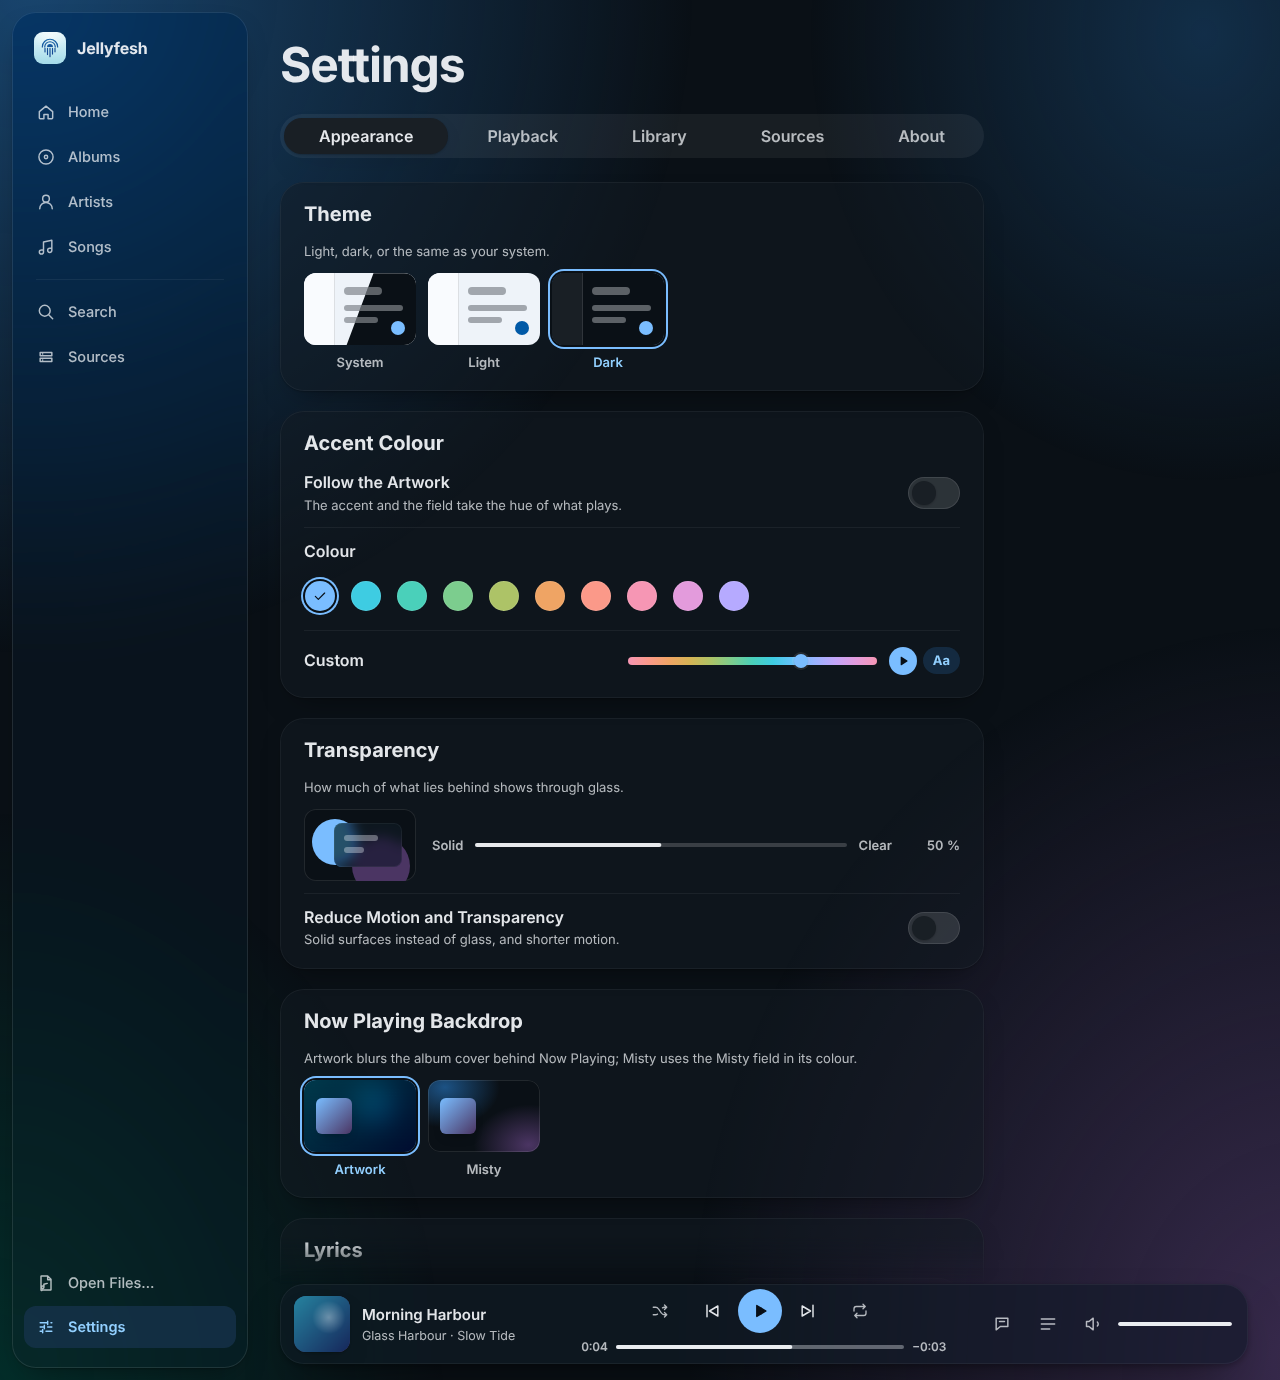
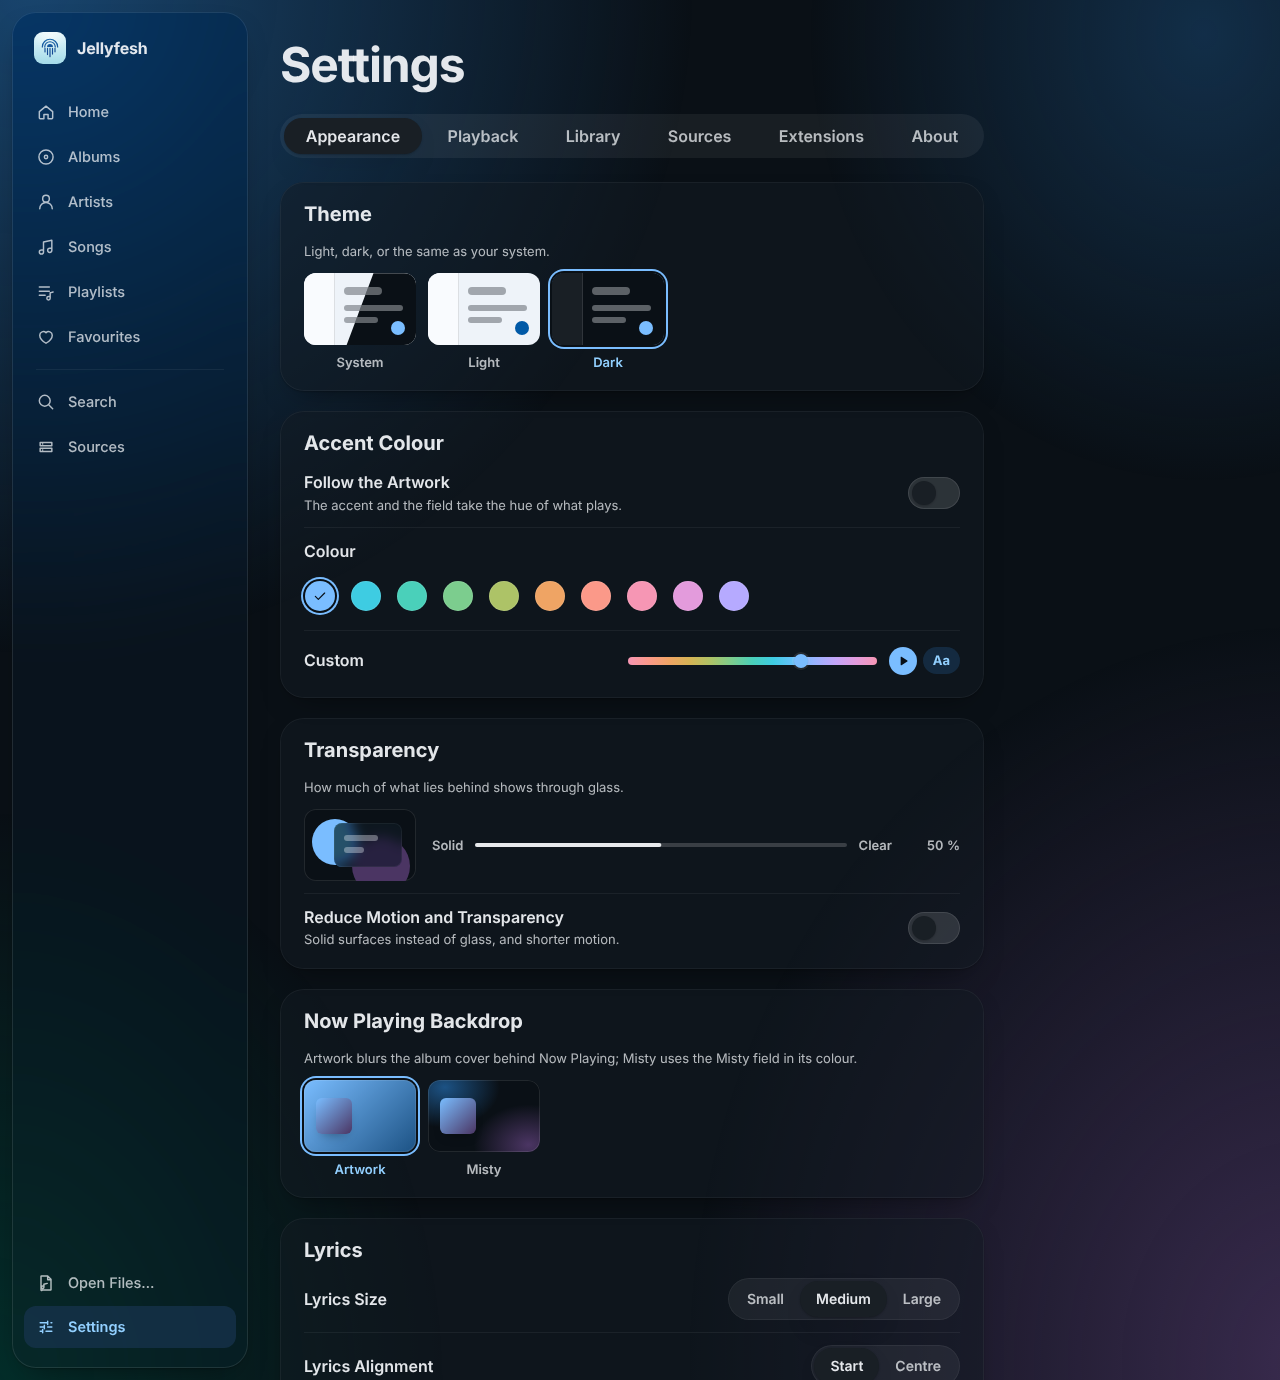
Web: reference screenshots of every page for v0.0.8
ADR-0023 §5: docs/screenshots/web/ now holds every reference page light
and dark, on a desktop and a phone: Home, Albums, Artists, Songs,
Playlists, a playlist, Favourites, Search and a source's tab, Sources, an
album, Settings' Appearance and Playback, and the quality menu, beside
Now Playing in both styles and the player bar. They are taken against the
mock servers and a generated music folder whose songs carry covers (an
ID3 chunk in the test WAVs), with hearts, a playlist and plays in place,
and keep their -mock-server names, so the website's sample-music shots
are still there. docs/web.md describes the set and the new tests.

diff --git a/platforms/web/tests/e2e/screenshots.spec.ts b/platforms/web/tests/e2e/screenshots.spec.ts
@@ -1,9 +1,17 @@
-// Screenshots for docs/screenshots/web/, taken from the app running against the mock servers
-// (invented library, generated covers): every file name ends in -mock-server.png. Only with
-// JF_SCREENSHOTS=1:  JF_SCREENSHOTS=1 npx playwright test screenshots --trace off
+// The reference screenshots in docs/screenshots/web/ (ADR-0023 §5: every reference page, light and
+// dark, desktop and phone), taken from the app running against the mock servers and a generated
+// music folder (invented names, generated tones and gradient covers): every file name ends in
+// -mock-server.png, and the website captions the ones it shows as sample music
+// (tools/release/build_site.py). Only with JF_SCREENSHOTS=1:
+//
+//   JF_SCREENSHOTS=1 npx playwright test screenshots --trace off
 
+import { mkdirSync, mkdtempSync, rmSync, writeFileSync } from 'node:fs';
+import { tmpdir } from 'node:os';
+import { join } from 'node:path';
 import { fileURLToPath } from 'node:url';
 import { type Browser, expect, type Page, test } from '@playwright/test';
+import { png, taggedWav } from '../mock/media.mjs';
 import { nav, openAlbum, openApp, signInJellyfinQuickConnect, signInSubsonic, waitPlaying } from './helpers';
 
 test.skip(!process.env.JF_SCREENSHOTS, 'screenshots only with JF_SCREENSHOTS=1');
@@ -14,10 +22,26 @@ const DESKTOP = { width: 1280, height: 800 };
 /** Tall enough for the whole Appearance section of Settings. */
 const DESKTOP_TALL = { width: 1280, height: 1380 };
 const PHONE = { width: 390, height: 844 };
+const FORMS = { desktop: DESKTOP, phone: PHONE } as const;
+type Form = keyof typeof FORMS;
+const APPEARANCES = ['light', 'dark'] as const;
+
+const SUBSONIC_ID = 'org.jellyfesh.subsonic';
+
+/** The generated music folder: two albums with covers and a song of its own (invented names). */
+const FOLDER_SONGS = [
+  { path: 'Quiet Reef/01 Driftwood Radio.wav', title: 'Driftwood Radio', artist: 'Paper Moth', album: 'Quiet Reef', track: 1, hz: 392, cover: [[64, 140, 150], [30, 50, 110]] },
+  { path: 'Quiet Reef/02 Salt Lamp.wav', title: 'Salt Lamp', artist: 'Paper Moth', album: 'Quiet Reef', track: 2, hz: 440, cover: [[64, 140, 150], [30, 50, 110]] },
+  { path: 'Quiet Reef/03 Low Clouds.wav', title: 'Low Clouds', artist: 'Paper Moth', album: 'Quiet Reef', track: 3, hz: 494, cover: [[64, 140, 150], [30, 50, 110]] },
+  { path: 'Neon Fjord/01 Night Kiosk.wav', title: 'Night Kiosk', artist: 'Lumen Drift', album: 'Neon Fjord', track: 1, hz: 523, cover: [[200, 90, 150], [60, 40, 120]] },
+  { path: 'Neon Fjord/02 Glass Orchard.wav', title: 'Glass Orchard', artist: 'Lumen Drift', album: 'Neon Fjord', track: 2, hz: 587, cover: [[200, 90, 150], [60, 40, 120]] },
+  { path: 'Singles/Morning Static.wav', title: 'Morning Static', artist: 'Ora Vale', album: null, track: null, hz: 659, cover: [[230, 170, 90], [150, 60, 70]] },
+];
 
 let page: Page;
+let root: string;
 
-async function setLook(appearance: 'light' | 'dark', style: 'artwork' | 'misty', language: string | null = null) {
+async function setLook(appearance: 'light' | 'dark', style: 'artwork' | 'misty' = 'artwork', language: string | null = null) {
   await page.evaluate(
     ({ appearance, style, language }) =>
       (globalThis as any).jellyfesh.settings.update((d: any) => {
@@ -30,18 +54,27 @@ async function setLook(appearance: 'light' | 'dark', style: 'artwork' | 'misty',
   await page.waitForTimeout(700);
 }
 
+/** Goes to a place (Home, Albums, … Settings) the way either layout's navigation does. */
+async function go(tab: string) {
+  await page.evaluate((tab) => (globalThis as any).jellyfesh.nav.switchTab(tab), tab);
+  await page.waitForTimeout(300);
+}
+
 /** Plays Morning Harbour and stops on the second lyric line, two words sung. */
 async function holdOnLyrics() {
   await openAlbum(page, 'Subsonic', 'Slow Tide');
   await page.getByRole('button', { name: 'Play Morning Harbour' }).click();
   await waitPlaying(page, 'Morning Harbour');
-  await page.evaluate(() => {
-    const player = (globalThis as any).jellyfesh.player;
-    player.seek(4600);
-  });
+  await page.evaluate(() => (globalThis as any).jellyfesh.player.seek(4600));
   await page.waitForTimeout(300);
   await page.evaluate(() => (globalThis as any).jellyfesh.player.pause());
   await page.waitForTimeout(500);
+}
+
+/** Closes an open popover menu (Escape would also go back a page). */
+async function closeMenu() {
+  await page.evaluate(() => document.querySelector<HTMLElement>('[popover]:popover-open')?.hidePopover());
+  await page.waitForTimeout(200);
 }
 
 /** Takes a screenshot, with the pointer parked where it hovers nothing unless `hovering`. */
@@ -54,69 +87,193 @@ async function shot(name: string, hovering = false) {
   await page.screenshot({ path: `${OUT}${name}-mock-server.png` });
 }
 
+/** A page in both appearances on both forms: `<stem>-<light|dark>-<desktop|phone>`. */
+async function everyLook(stem: string, open: (form: Form) => Promise<void>, forms: Form[] = ['desktop', 'phone']) {
+  for (const form of forms) {
+    await page.setViewportSize(FORMS[form]);
+    await open(form);
+    for (const appearance of APPEARANCES) {
+      await setLook(appearance);
+      await shot(`${stem}-${appearance}-${form}`);
+    }
+  }
+  await page.setViewportSize(DESKTOP);
+  await setLook('light');
+}
+
 test.beforeAll(async ({ browser }: { browser: Browser }) => {
+  root = mkdtempSync(join(tmpdir(), 'jf-shots-'));
+  for (const song of FOLDER_SONGS) {
+    const file = join(root, 'Music', song.path);
+    mkdirSync(join(file, '..'), { recursive: true });
+    const cover = png(600, song.cover[0], song.cover[1]);
+    writeFileSync(
+      file,
+      taggedWav(4, song.hz, { title: song.title, artist: song.artist, album: song.album ?? undefined, track: song.track ?? undefined, year: 2026, cover }),
+    );
+  }
   page = await browser.newPage({ viewport: DESKTOP, deviceScaleFactor: 1 });
+  // The folder picker of browsers that keep no folders (Playwright cannot drive the native one).
+  await page.addInitScript(() => {
+    delete (window as unknown as { showDirectoryPicker?: unknown }).showDirectoryPicker;
+  });
   await openApp(page);
   await signInSubsonic(page);
   await signInJellyfinQuickConnect(page);
+  await nav(page, 'Settings').click();
+  await page.getByRole('tab', { name: 'Library' }).click();
+  const chooser = page.waitForEvent('filechooser');
+  await page.getByRole('button', { name: 'Add Folder…' }).click();
+  await (await chooser).setFiles(join(root, 'Music'));
+  await expect.poll(() => page.evaluate(() => (globalThis as any).jellyfesh.library.stats.tracks), { timeout: 30_000 }).toBe(FOLDER_SONGS.length);
+
+  // Hearts, a Jellyfesh playlist and plays, as someone who has used Jellyfesh a while has them.
+  await page.evaluate(async (subsonic) => {
+    const app = (globalThis as any).jellyfesh;
+    const library = app.library.songs('title', false).map((item: any) => ({ plugin: 'library', item }));
+    const byTitle = (title: string) => library.find((s: any) => s.item.title === title);
+    const server = new Map<string, any>();
+    for (const title of ['Night Ferry', 'Lanterns', 'Rope and Mast', 'Still Water', 'Morning Harbour']) {
+      const item = (await app.sources.get(subsonic).search(title, 5, 8000, ['Track'])).items.find((i: any) => i.title === title);
+      if (item) server.set(title, { plugin: subsonic, item });
+    }
+    const fromServer = (title: string) => server.get(title);
+    const hearted = [byTitle('Salt Lamp'), fromServer('Night Ferry'), byTitle('Glass Orchard'), fromServer('Lanterns')];
+    for (const song of hearted) if (song) app.collections.setFavorite(song, true);
+    const id = app.collections.createPlaylist('Evening Drive');
+    app.collections.addToPlaylist(
+      id,
+      [byTitle('Driftwood Radio'), fromServer('Rope and Mast'), byTitle('Night Kiosk'), fromServer('Still Water'), byTitle('Morning Static')].filter(Boolean),
+    );
+    app.collections.createPlaylist('Rainy Mornings');
+    let at = Date.now() - 3 * 86_400_000;
+    const plays: [any, number][] = [
+      [byTitle('Low Clouds'), 3],
+      [fromServer('Morning Harbour'), 5],
+      [byTitle('Night Kiosk'), 2],
+      [fromServer('Night Ferry'), 1],
+      [byTitle('Salt Lamp'), 4],
+    ];
+    for (const [song, times] of plays) {
+      for (let n = 0; n < times && song; n++) {
+        at += 3_600_000;
+        app.collections.recordPlay(song, at, true);
+      }
+    }
+  }, SUBSONIC_ID);
 });
 
 test.afterAll(async () => {
   await page.close();
+  rmSync(root, { recursive: true, force: true });
 });
 
-test('library views', async () => {
-  await setLook('light', 'artwork');
-  await nav(page, 'Home').click();
-  // Both servers' shelves loaded (not their placeholders).
-  for (const source of ['Subsonic', 'Jellyfin']) {
-    await expect(page.getByRole('region', { name: source }).getByRole('button', { name: 'Open Albums' })).toBeVisible();
-  }
-  await expect(page.getByRole('status')).toHaveCount(0);
-  await shot('home-light-desktop');
-  await openAlbum(page, 'Jellyfin', 'Slow Tide');
+test('the library places', async () => {
+  await everyLook('home', async () => {
+    await go('home');
+    for (const source of ['Subsonic', 'Jellyfin']) {
+      await expect(page.getByRole('region', { name: source }).getByRole('button', { name: 'Open Albums' })).toBeVisible();
+    }
+    await expect(page.getByRole('region', { name: 'Recently Played' })).toBeVisible();
+    await expect(page.getByRole('status')).toHaveCount(0);
+  });
+  await everyLook('albums', async () => {
+    await go('albums');
+    await expect(page.getByRole('button', { name: 'Open Quiet Reef' })).toBeVisible();
+  });
+  await everyLook('artists', async () => {
+    await go('artists');
+    await expect(page.getByRole('button', { name: 'Open Paper Moth' })).toBeVisible();
+  });
+  await everyLook('songs', async () => {
+    await go('songs');
+    await expect(page.getByRole('button', { name: 'Play Driftwood Radio' })).toBeVisible();
+  });
+  await everyLook('playlists', async () => {
+    await go('playlists');
+    await expect(page.getByRole('button', { name: 'Open Evening Drive' })).toBeVisible();
+    await expect(page.getByRole('region', { name: 'Subsonic' }).getByRole('button', { name: 'Open Evening Walk' })).toBeVisible();
+    await expect(page.getByRole('region', { name: 'Jellyfin' }).getByRole('button', { name: 'Open Evening Walk' })).toBeVisible();
+  });
+  await everyLook('playlist', async () => {
+    await go('playlists');
+    await page.getByRole('button', { name: 'Open Evening Drive' }).click();
+    await expect(page.getByRole('list', { name: 'Evening Drive' }).getByRole('listitem')).toHaveCount(5);
+  });
+  await everyLook('favourites', async () => {
+    await go('favourites');
+    await expect(page.getByRole('list', { name: 'Favourites' }).getByRole('listitem')).toHaveCount(4);
+    await expect(page.getByRole('region', { name: 'Subsonic' }).getByRole('group', { name: 'Songs' })).toBeVisible();
+  });
+  await everyLook('search', async () => {
+    await go('search');
+    await page.getByRole('searchbox', { name: 'Search' }).fill('lantern');
+    // The same song on both servers shows once, where it answered first, "also in" the other.
+    await expect(page.getByText(/Also in (Subsonic|Jellyfin)/).first()).toBeVisible();
+    await expect(page.getByRole('tab', { name: 'Jellyfin' })).toBeVisible();
+    await page.getByRole('searchbox', { name: 'Search' }).blur();
+  });
+  await everyLook('search-source', async () => {
+    await go('search');
+    await page.getByRole('tab', { name: 'Subsonic' }).click();
+    await expect(page.getByRole('tabpanel').getByRole('region', { name: 'Songs' })).toBeVisible();
+  });
+  await everyLook('sources', async () => {
+    await go('sources');
+    await expect(page.getByRole('heading', { name: 'Sources', level: 1 })).toBeVisible();
+  });
+});
+
+test('an album', async () => {
+  await everyLook('album', async (form) => {
+    await openAlbum(page, 'Jellyfin', 'Slow Tide');
+    if (form === 'desktop') await page.getByRole('button', { name: 'Play Rope and Mast' }).hover();
+  });
   // A track number turns into a play glyph under the pointer.
+  await openAlbum(page, 'Jellyfin', 'Slow Tide');
   await page.getByRole('button', { name: 'Play Rope and Mast' }).hover();
   await shot('album-light-desktop', true);
-  await setLook('dark', 'artwork');
-  await shot('album-dark-desktop');
-  await nav(page, 'Search').click();
-  await page.getByRole('searchbox', { name: 'Search' }).fill('lantern');
-  // The same song on both servers shows once, where it answered first, "also in" the other.
-  await expect(page.getByRole('button', { name: 'Play Lanterns' })).toHaveCount(1);
-  await expect(page.getByText(/Also in (Subsonic|Jellyfin)/).first()).toBeVisible();
-  await shot('search-dark-desktop');
-  await setLook('light', 'artwork');
-  await nav(page, 'Sources').click();
-  await shot('sources-light-desktop');
 });
 
-test('the player bar', async () => {
-  await holdOnLyrics();
-  await expect(page.getByRole('region', { name: 'Now Playing' })).toBeVisible();
-  for (const appearance of ['light', 'dark'] as const) {
-    await setLook(appearance, 'artwork');
-    await shot(`player-bar-${appearance}-desktop`);
-  }
-  await setLook('light', 'artwork');
-});
-
-test('Settings: Appearance', async () => {
-  await nav(page, 'Settings').click();
-  await page.getByRole('tab', { name: 'Appearance' }).click();
-  await expect(page.getByRole('heading', { name: 'Theme' })).toBeVisible();
+test('Settings', async () => {
   // Show the swatches: a fixed accent, the default hue's swatch.
-  await page.evaluate(() =>
-    (globalThis as any).jellyfesh.settings.update((d: any) => (d.hue_source = { kind: 'fixed', hue: 250 })),
-  );
-  await page.setViewportSize(DESKTOP_TALL);
-  for (const appearance of ['light', 'dark'] as const) {
-    await setLook(appearance, 'artwork');
-    await shot(`preferences-appearance-${appearance}-desktop`);
+  await page.evaluate(() => (globalThis as any).jellyfesh.settings.update((d: any) => (d.hue_source = { kind: 'fixed', hue: 250 })));
+  for (const form of ['desktop', 'phone'] as const) {
+    await page.setViewportSize(form === 'desktop' ? DESKTOP_TALL : PHONE);
+    await go('settings');
+    await page.getByRole('tab', { name: 'Appearance' }).click();
+    await expect(page.getByRole('heading', { name: 'Theme' })).toBeVisible();
+    for (const appearance of APPEARANCES) {
+      await setLook(appearance);
+      await shot(`preferences-appearance-${appearance}-${form}`);
+    }
+    await page.getByRole('tab', { name: 'Playback' }).click();
+    await expect(page.getByRole('heading', { name: 'Streaming' })).toBeVisible();
+    for (const appearance of APPEARANCES) {
+      await setLook(appearance);
+      await shot(`preferences-playback-${appearance}-${form}`);
+    }
   }
   await page.setViewportSize(DESKTOP);
   await page.evaluate(() => (globalThis as any).jellyfesh.settings.update((d: any) => (d.hue_source = { kind: 'artwork' })));
-  await setLook('light', 'artwork');
+  await setLook('light');
+});
+
+test('the player bar and its quality menu', async () => {
+  await holdOnLyrics();
+  await expect(page.getByRole('region', { name: 'Now Playing' })).toBeVisible();
+  for (const appearance of APPEARANCES) {
+    await setLook(appearance);
+    await shot(`player-bar-${appearance}-desktop`);
+  }
+  for (const appearance of APPEARANCES) {
+    await setLook(appearance);
+    await page.getByRole('button', { name: /^Quality: / }).first().click();
+    await expect(page.getByRole('menu', { name: 'Streaming Quality' })).toBeVisible();
+    await shot(`quality-menu-${appearance}-desktop`, true);
+    await closeMenu();
+  }
+  await setLook('light');
 });
 
 test('Now Playing on a desktop', async () => {
@@ -124,7 +281,7 @@ test('Now Playing on a desktop', async () => {
   await page.getByRole('button', { name: 'Open Now Playing' }).click();
   await expect(page.locator('.line.active')).toBeVisible();
   for (const style of ['artwork', 'misty'] as const) {
-    for (const appearance of ['light', 'dark'] as const) {
+    for (const appearance of APPEARANCES) {
       await setLook(appearance, style);
       await shot(`now-playing-${style}-${appearance}-desktop`);
     }
@@ -152,10 +309,16 @@ test('Now Playing on a phone', async () => {
   await setLook('dark', 'artwork');
   await page.getByRole('button', { name: 'Lyrics' }).click();
   await shot('now-playing-lyrics-artwork-dark-phone');
+  // The quality menu, from Now Playing (the capsule has no badge).
+  for (const appearance of APPEARANCES) {
+    await setLook(appearance);
+    await page.getByRole('button', { name: /^Quality: / }).first().click();
+    await expect(page.getByRole('menu', { name: 'Streaming Quality' })).toBeVisible();
+    await shot(`quality-menu-${appearance}-phone`, true);
+    await closeMenu();
+  }
   await page.keyboard.press('Escape');
   await expect(page.getByRole('dialog', { name: 'Now Playing' })).toBeHidden();
-  await setLook('light', 'misty');
-  await openAlbum(page, 'Subsonic', 'Slow Tide');
-  await shot('album-light-phone');
   await page.setViewportSize(DESKTOP);
+  await setLook('light');
 });

diff --git a/docs/web.md b/docs/web.md
@@ -18,8 +18,13 @@ the same rules as the apps' library.
 ![Now Playing in the Artwork style, dark, against the mock server](screenshots/web/now-playing-artwork-dark-desktop-mock-server.png)
 
 The screenshots in `docs/screenshots/web/` come from the app running against
-the test servers in `platforms/web/tests/mock` (invented names, generated
-sine tones and gradient covers), hence `-mock-server` in their names. They
+the test servers in `platforms/web/tests/mock` and a generated music folder
+(invented names, generated sine tones and gradient covers), hence
+`-mock-server` in their names. Since v0.0.8 they are the reference the apps
+match (ADR-0023 §5): every page (Home, Albums, Artists, Songs, Playlists, a
+playlist, Favourites, Search and a source's tab, Sources, an album, Settings'
+Appearance and Playback, the quality menu) light and dark, on a desktop and a
+phone, with Now Playing in both backdrop styles and the player bar. They
 were taken from a development build, whose plugins are not signed with the
 release key, so Sources shows them as Community plugins; the website's build
 signs them (`.github/workflows/web.yml`, with the `JF_PLUGIN_SIGNING_KEY`
@@ -707,7 +712,10 @@ Tests:
   sign-in with a password and with Quick Connect, browsing, search (with its
   tabs, `subsonic.spec.ts`), hearts, playlists, plays on Home and the quality
   badge (`collections.spec.ts`), a playlist file imported against the
-  library and exported again (`library.spec.ts`), playback
+  library and exported again (`library.spec.ts`), the servers' favourites
+  and playlists, Save as Playlist…, the quality menu's levels and Download,
+  including a refusal that is not saved (`sources-library.spec.ts`, and
+  Jellyfin's in `jellyfin.spec.ts`), playback
   with word-timed lyrics and translations, next and previous, crossfade on,
   off and with album continuity, the gapless gap, a dropped file with a TTML
   lyrics file, Jellyfin streams through the service worker, sign-out, and
@@ -735,7 +743,8 @@ Tests:
   points them at a copy served elsewhere (for example the website build at
   `/app/`).
 * **Screenshots**: `JF_SCREENSHOTS=1 npx playwright test screenshots
-  --trace off` rewrites `docs/screenshots/web/`.
+  --trace off` rewrites `docs/screenshots/web/` (every page, light and dark,
+  desktop and phone; the website shows a few, captioned as sample music).
 
 `.github/workflows/web.yml` runs all of it on pull requests and pushes. On
 pushes to `main`, after each release (`release.yml` starts it) and when
